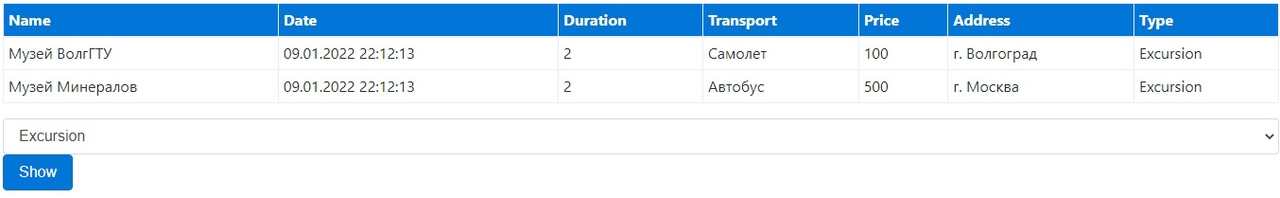
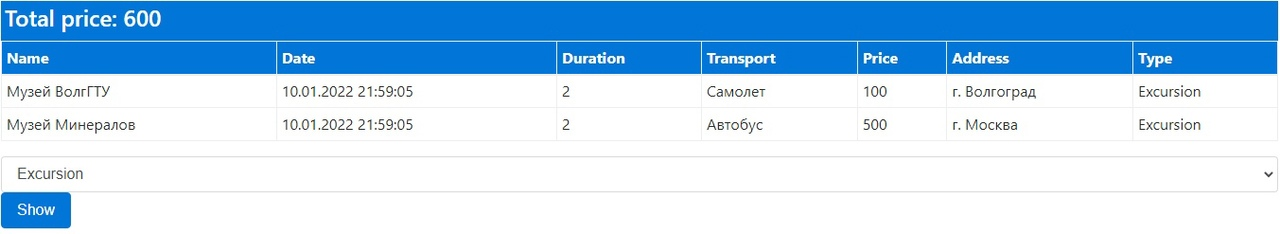
totalprice

diff --git a/Mishanya/Controllers/HomeController.cs b/Mishanya/Controllers/HomeController.cs
@@ -25,6 +25,7 @@ namespace Mishanya.Controllers
             {
                 toursListViewModel.Tours = repository.Tours;
             }
+            toursListViewModel.TotalPrice = toursListViewModel.Tours.Sum(x => x.Price);
             return View(toursListViewModel);
         }
     }

diff --git a/Mishanya/Models/ToursListViewModel.cs b/Mishanya/Models/ToursListViewModel.cs
@@ -10,5 +10,6 @@ namespace Mishanya.Models
     {
         public IEnumerable<Tour> Tours { get; set; }
         public TripType CurrentType { get; set; }
+        public decimal TotalPrice { get; set; }
     }
 }
